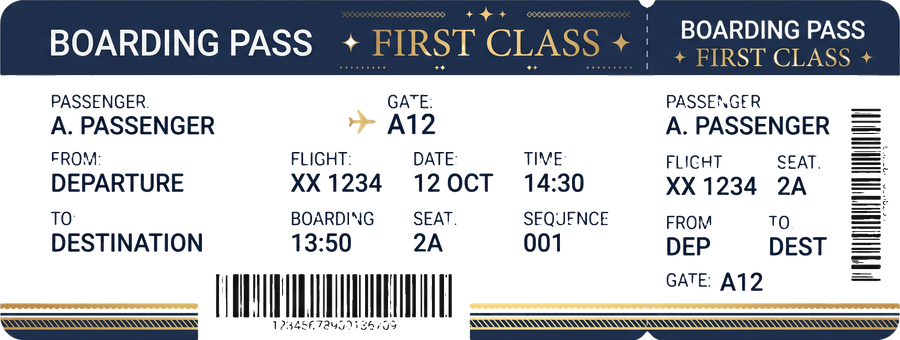
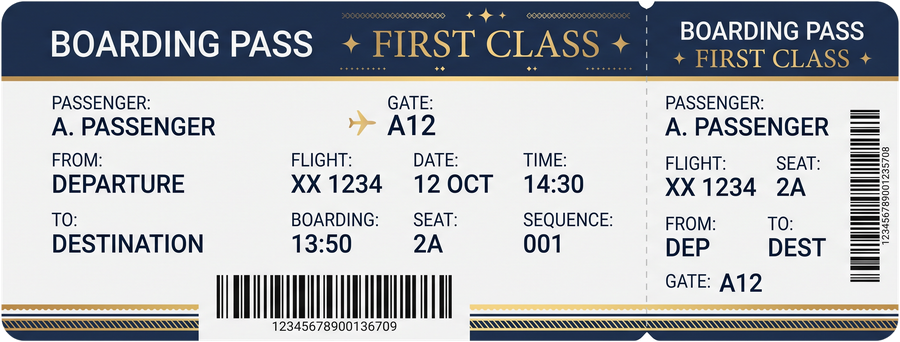
Collage: solid paper props (documents, pass, notes), --solid cut-out option, versions
Claude-Session: https://claude.ai/code/session_01EfXyX4AZbKhoUfTFiCv7sz

diff --git a/motion-kit/tools/collage/make_layers.py b/motion-kit/tools/collage/make_layers.py
@@ -1,6 +1,7 @@
 # Photo Collage 2.5D layer prep (style 20).
 #   Scene with a person:  python3 make_layers.py <scene.png> <plate.png> <out-dir> <name>
-#   Prop on plain white:  python3 make_layers.py <prop.png> - <out-dir> <name> --prop
+#   Prop on plain white:  python3 make_layers.py <prop.png> - <out-dir> <name> --prop [--solid]
+#   (--solid for paper and other light, flat props: checks the page stays opaque)
 # scene.png = the full Nano Banana 2.1 image; plate.png = the same image edited by Nano Banana 2.1 with the subject erased.
 # Writes <name>_plate.jpg (1080 wide) and <name>_subj.png (the person, registered to the plate, transparent elsewhere),
 # or <name>.png for a prop (cropped to the object, max 900 px).
@@ -18,6 +19,12 @@ scene, plate, out, name = sys.argv[1:5]
 a = Image.open(scene).convert('RGB')
 if '--prop' in sys.argv:
     o = remove(a, session=new_session('isnet-general-use'), post_process_mask=True)
+    if '--solid' in sys.argv:   # white paper on white (forms, tickets, notes): the page itself goes see-through, so fill its convex outline
+        from scipy.spatial import ConvexHull
+        from PIL import ImageDraw
+        ys, xs = np.where(np.asarray(o.split()[3]) > 40); pts = np.c_[xs, ys]; hull = pts[ConvexHull(pts).vertices]
+        m = Image.new('L', a.size, 0); ImageDraw.Draw(m).polygon([tuple(p) for p in hull], fill=255)
+        o = a.convert('RGBA'); o.putalpha(m)
     o = o.crop(o.getbbox()); o.thumbnail((900, 900), Image.LANCZOS); o.save(f'{out}/{name}.png')
     sys.exit()
 

diff --git a/motion-kit/README.md b/motion-kit/README.md
@@ -108,7 +108,7 @@ Round 1 films are `films/cce-ft*`, round 2 films `films/cce-r2-*`; per-clip data
 | **18 Card Ribbon (new)** | — | Video 17 → `cce_18-card-ribbon_r2-video17-moving-limits_v03` (film `cce-r2-18-cards`); Video 12 → `cce_18-card-ribbon_r2-video12-the-fee_v01` (film `cce-r2-18b-cards`) |
 | **18C Card Structures 3D (new)** | — | Video 17 → `cce_18c-card-structures-3d_r2-video17-moving-limits_v03` (film `cce-r2-18c-cards3d`); Video 14 → `cce_18c-card-structures-3d_r2-video14-small-transaction_v02` (film `cce-r2-18d-cards3d`) |
 | **19 Pixel Wealth (new)** | Video 3 → `cce_19-pixel-wealth_footage-video03_v05` (film `cce-ft19-pixel`) | Video 24 → `cce_19-pixel-wealth_footage-video24-authorized-users_v04` (`cce-ft19b-pixel`); VSL #2 → `cce_19-pixel-wealth_footage-vsl2-busboy_v04` (`cce-ft19c-pixel`) |
-| **20 Photo Collage 2.5D (new)** | Video 3 → `cce_20-photo-collage_footage-video03_v02` (film `cce-ft20-collage`) | VSL #2 → `cce_20-photo-collage_footage-vsl2-busboy_v01` (`cce-ft20b-collage`) |
+| **20 Photo Collage 2.5D (new)** | Video 3 → `cce_20-photo-collage_footage-video03_v03` (film `cce-ft20-collage`) | VSL #2 → `cce_20-photo-collage_footage-vsl2-busboy_v02` (`cce-ft20b-collage`) |
 
 ### Pipeline for a new clip (run from `motion-kit/tools/footage/`, `FT_SRC` = folder of clips)
 1. **Get the clip.** Drive downloads are blocked from cloud shells; download in the browser (or ask the creative lead) into `$CCE_ROOT/footage-tests/`, then stage it.

diff --git a/workflows/code-motion-tests.md b/workflows/code-motion-tests.md
@@ -236,3 +236,4 @@ Source: the creative lead's direction in chat, Nov 19–25 2026. Last updated: 2
     - Posterize Time: the photo panel animates at 12 fps (held frames), founder footage and captions stay at full rate;
     - masks: matte the edge band and decontaminate edge colours so no halo shows; fill only small holes.
   - **VSL #2 test (busboy):** one recurring character across the story (generate later shots with the hero image as a character reference, including a younger self); the past in black-and-white halftone, the present in colour; colour props (the empty wallet) pop inside a black-and-white shot. Grids of photos or buildings are generated as one flat image and split on their white gutters. White paper props on white (calendars, forms) lose their page in the cut-out: fill the silhouette so the page stays opaque. Keep props out of the headline zone; a prop under the title reads as a stray mark.
+  - **Paper props (feedback: "the document looks wrong, like the white is transparent"):** white or light flat props on a white background (forms, statements, tickets, notes, calendars) lose their page in the cut-out. Cut them with `make_layers.py ... --prop --solid` (fills the convex outline) and check each prop over a coloured background before use (opaque area above ~90%).
